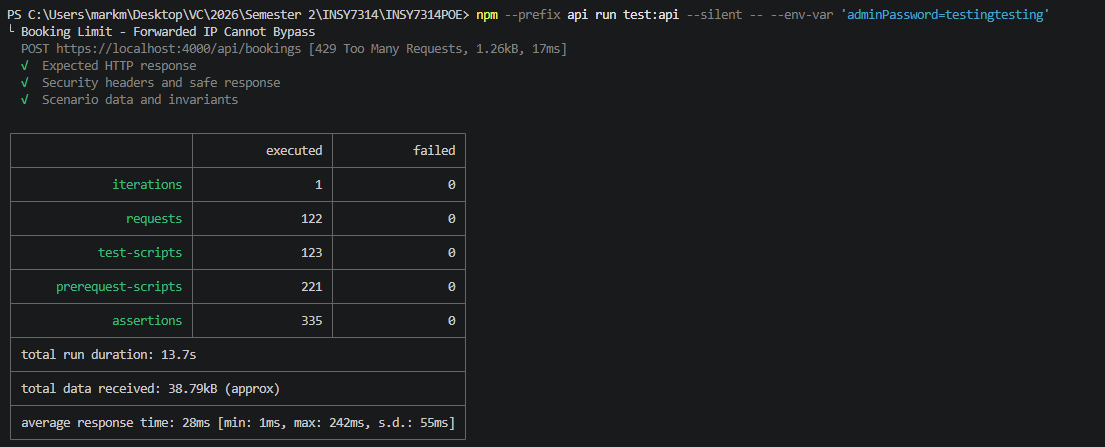
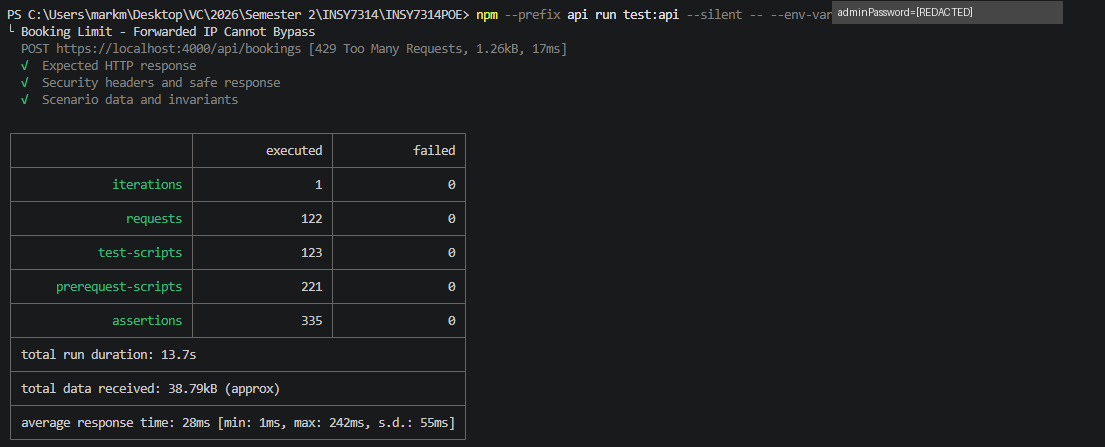
docs(qa): P3-19 final QA pass, redact admin password, fix shell line endings

Changed region(s): [[0.7385, 0.0, 0.9846, 0.0582]]

diff --git a/evidence/part3/README.md b/evidence/part3/README.md
@@ -1,6 +1,6 @@
 # Part 3 evidence index
 
-This folder holds the evidence for the Part 3 rubric (DevSecOps, Monitoring and Finalisation). Every file listed here comes from a real, successful run. Evidence that has not been produced yet is marked **Pending** with its owning issue. Nothing is fabricated or edited after the run.
+This folder holds the evidence for the Part 3 rubric (DevSecOps, Monitoring and Finalisation). Every file listed here comes from a real, successful run. Evidence that has not been produced yet is marked **Pending** with its owning issue. Nothing is fabricated or edited after the run. The only exception is redaction: one secret visible in a terminal capture was covered with a labelled `[REDACTED]` box. The result is unchanged, and the redaction is listed under [Redactions](#redactions).
 
 None of these files contains account passwords, JWTs, `JWT_SECRET`, MongoDB connection strings or Grafana tokens. Test accounts use generated `@hustlehub.test` addresses.
 
@@ -13,7 +13,7 @@ The step-by-step demonstration that walks through this evidence is in [`docs/dem
 | Final features: tax + income dashboard (20) | [`e2e/screenshots/05-freelancer-income-tax-dashboard.png`](e2e/screenshots/05-freelancer-income-tax-dashboard.png), [`newman/financial-assertions.png`](newman/financial-assertions.png) | [`docs/finance/tax-estimation.md`](../../docs/finance/tax-estimation.md), [`docs/finance/income-api-contract.md`](../../docs/finance/income-api-contract.md) |
 | CI/CD pipeline (20) | [`ci/github-actions-runs.png`](ci/github-actions-runs.png): passing pull-request and `dev` runs. | [`.github/workflows/ci.yml`](../../.github/workflows/ci.yml), [`docs/ci/devsecops.md`](../../docs/ci/devsecops.md) |
 | Static code analysis (10) | [`static-analysis/`](static-analysis/): before/after overview, accepted issues, passed quality gate | [`docs/security/static-analysis.md`](../../docs/security/static-analysis.md) |
-| Docker: backend + frontend (10) | **Pending (P3-10/P3-11):** `docker compose ps` showing healthy `api` and `client`, plus the HTTPS health response | [`docs/docker/compose.md`](../../docs/docker/compose.md) |
+| Docker: backend + frontend (10) | **Pending (P3-19 capture):** `docker/compose-ps.png` (`docker compose ps` with `api` and `client` both `healthy`) and `docker/api-https-health.png` (`curl.exe -k https://localhost:4000/health` answered by the Compose API container). See the [final QA checklist](../../docs/demo/part3-demonstration-runbook.md#final-qa-checklist). | [`docs/docker/compose.md`](../../docs/docker/compose.md) |
 | Logging (10) | [`logging/`](logging/): Grafana Cloud dashboard, Explore queries and privacy check | [`logging/README.md`](logging/README.md), [`docs/monitoring/`](../../docs/monitoring/) |
 | Own security features (15) | [`security-tests/`](security-tests/) (idempotency misuse, revocation, limits), [`e2e/playwright-junit.xml`](e2e/playwright-junit.xml) (sign-out revokes the server session) | [`docs/security/booking-idempotency.md`](../../docs/security/booking-idempotency.md), [`docs/security/session-revocation.md`](../../docs/security/session-revocation.md) |
 | Security review in README (10) | Not evidence-based | [README Security Review](../../README.md#security-review), [`docs/security/threat-control-review.md`](../../docs/security/threat-control-review.md) |
@@ -29,6 +29,8 @@ The step-by-step demonstration that walks through this evidence is in [`docs/dem
 | Real-browser E2E (P3-14) | `npm --prefix e2e run test:evidence` | **7 passed, 0 failed** | [`e2e/playwright-junit.xml`](e2e/playwright-junit.xml), [`e2e/playwright-summary.png`](e2e/playwright-summary.png), [`e2e/screenshots/`](e2e/screenshots/) |
 | Backend unit tests | `npm --prefix api test` | **98 passed, 0 failed** | [`unit-tests/api-node-test.xml`](unit-tests/api-node-test.xml) |
 | Frontend unit tests | `npm --prefix client test` | **28 passed (5 files), 0 failed** | [`unit-tests/client-vitest.xml`](unit-tests/client-vitest.xml) |
+
+**Counts in the JUnit files.** The Postman CLI summary table (the screenshots) is the authoritative total. The JUnit exports list each request once, so requests that repeat in a loop (for example *Booking Limit - Automatic Loop Until 429*) are merged. That is why `functional-report.xml` contains 329 test cases against 335 assertions, and `security-limits.xml` contains 39 test cases against 102 assertions. Both formats report 0 failures.
 
 Every API-backed suite needs **its own freshly started API process** (`npm --prefix api start`), because the rate limiters count in memory. Run order used for the final cycle: functional Newman → restart → E2E → restart → security matrix → restart → security limits.
 
@@ -56,3 +58,9 @@ Captured by the Playwright suite in a real Chromium browser against the HTTPS AP
 | [`07-client-access-denied.png`](e2e/screenshots/07-client-access-denied.png) | A client is denied the freelancer dashboard. |
 
 Worked check of screenshot 05 (7 November 2026 = day 252 of 365): R250 000 × 365 ÷ 252 = **R362 103.17** projected. Tax = R44 118 + 26% × (R362 103.17 − R245 100) − R17 820 primary rebate = **R56 718.82**. The Playwright test and the Postman oracle both check this calculation independently of the API code.
+
+## Redactions
+
+| File | What was covered | Why |
+|---|---|---|
+| [`newman/functional-summary.png`](newman/functional-summary.png) | The value passed as `--env-var 'adminPassword=...'` on the command line | It was the assessment administrator's password. It is redacted here and is being rotated in the assessment database before submission. |

diff --git a/docs/demo/part3-demonstration-runbook.md b/docs/demo/part3-demonstration-runbook.md
@@ -45,6 +45,25 @@ Supporting evidence: [`evidence/part3/README.md`](../../evidence/part3/README.md
 | Dashboard shows R0 | Make sure the booking was made against the freelancer's own gig, then use **Refresh data**. |
 | A pipeline run is still in progress | Show the most recent completed passing run. |
 
+## Final QA checklist
+
+Complete these checks before submission. The first block was verified against the `dev` snapshot of 9 November 2026. The second block requires a team member's machine or accounts.
+
+**Verified**
+
+- [x] Every relative link and heading anchor in all repository Markdown files resolves (0 broken).
+- [x] Every committed JUnit report has 0 failures and 0 skipped: functional Newman, security matrix, security limits, Playwright (7), API unit (98), client Vitest (28).
+- [x] The totals in the evidence index and README match the CLI summary screenshots (335, 278, 102 assertions). The JUnit testcase counts differ, as explained in the [evidence index](../../evidence/part3/README.md#test-results).
+- [x] Part 3 screenshots checked for secrets. One administrator password was visible on a command line and has been redacted (see [Redactions](../../evidence/part3/README.md#redactions)). No JWTs, connection strings, `.env` contents or Grafana tokens are visible. The Grafana stack name and request IDs are not secrets.
+- [x] Every `npm` command in this runbook and the evidence index exists in the relevant `package.json`.
+
+**Still to do (team)**
+
+- [ ] **Rotate the assessment administrator password** in Atlas (re-register, or replace the hash) and share the new one with the marker outside the repository. The old password was committed earlier and appeared in a screenshot.
+- [ ] **Docker evidence:** run `docker compose up --build -d`, wait about a minute, then capture `docker compose ps` (both services `healthy`) as `evidence/part3/docker/compose-ps.png` and `curl.exe -k https://localhost:4000/health` as `evidence/part3/docker/api-https-health.png`. Then replace the *Pending* text in the evidence index and the README Part 3 rubric row with links to those files.
+- [ ] **Record the video** using the script above, check it for secrets, and add the link to the README **Demonstration Video** section.
+- [ ] Update the *Group Contributions* note once P3-19 and P3-20 are closed.
+
 ## After recording
 
 - Watch the full video for any visible secret (connection string, token, password, `.env` contents). Re-record that section if one appears.
